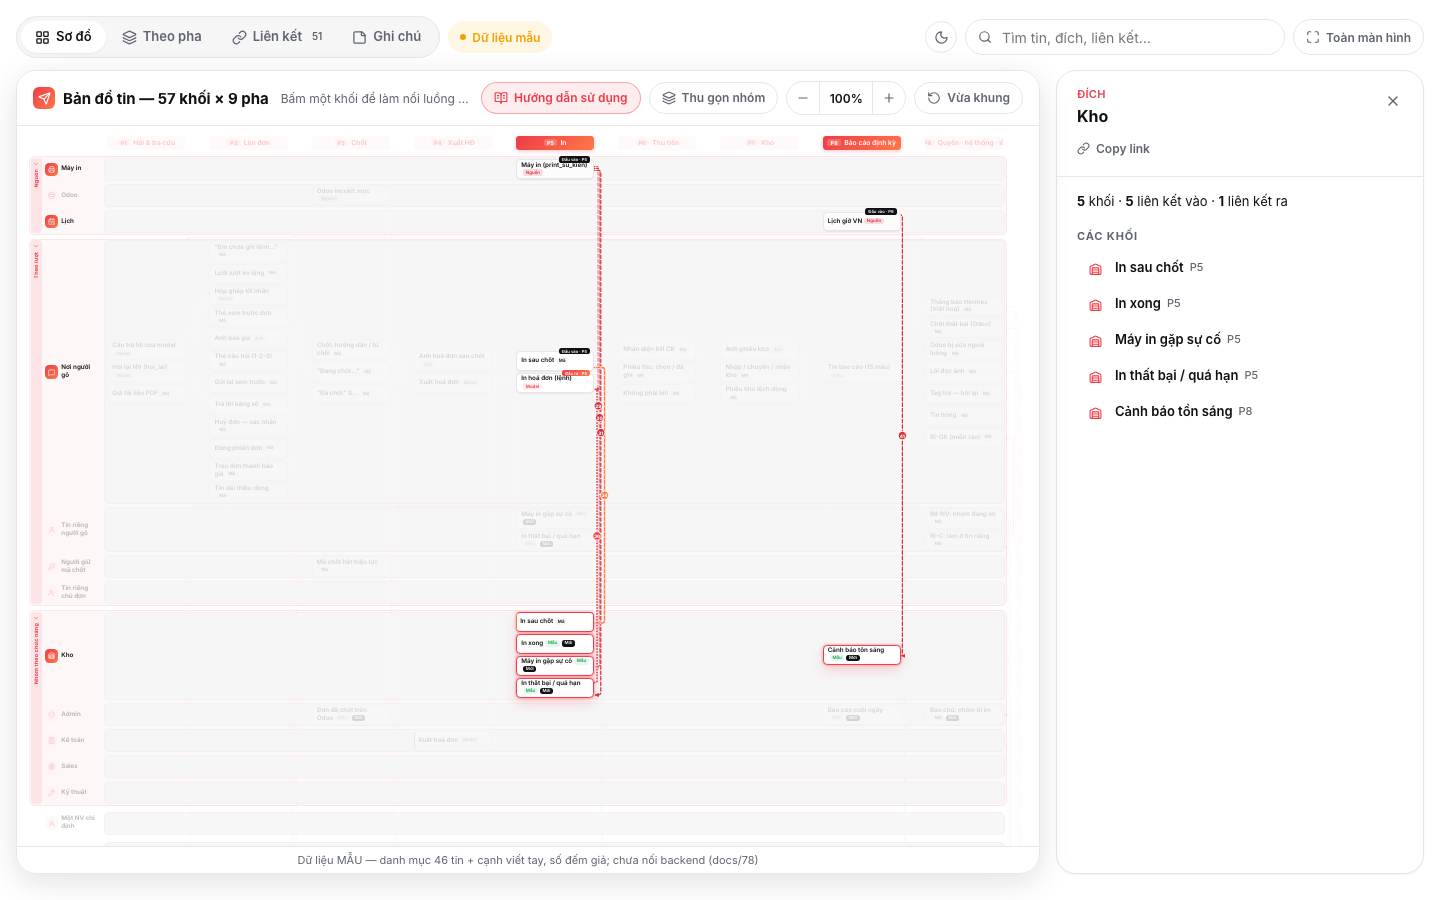
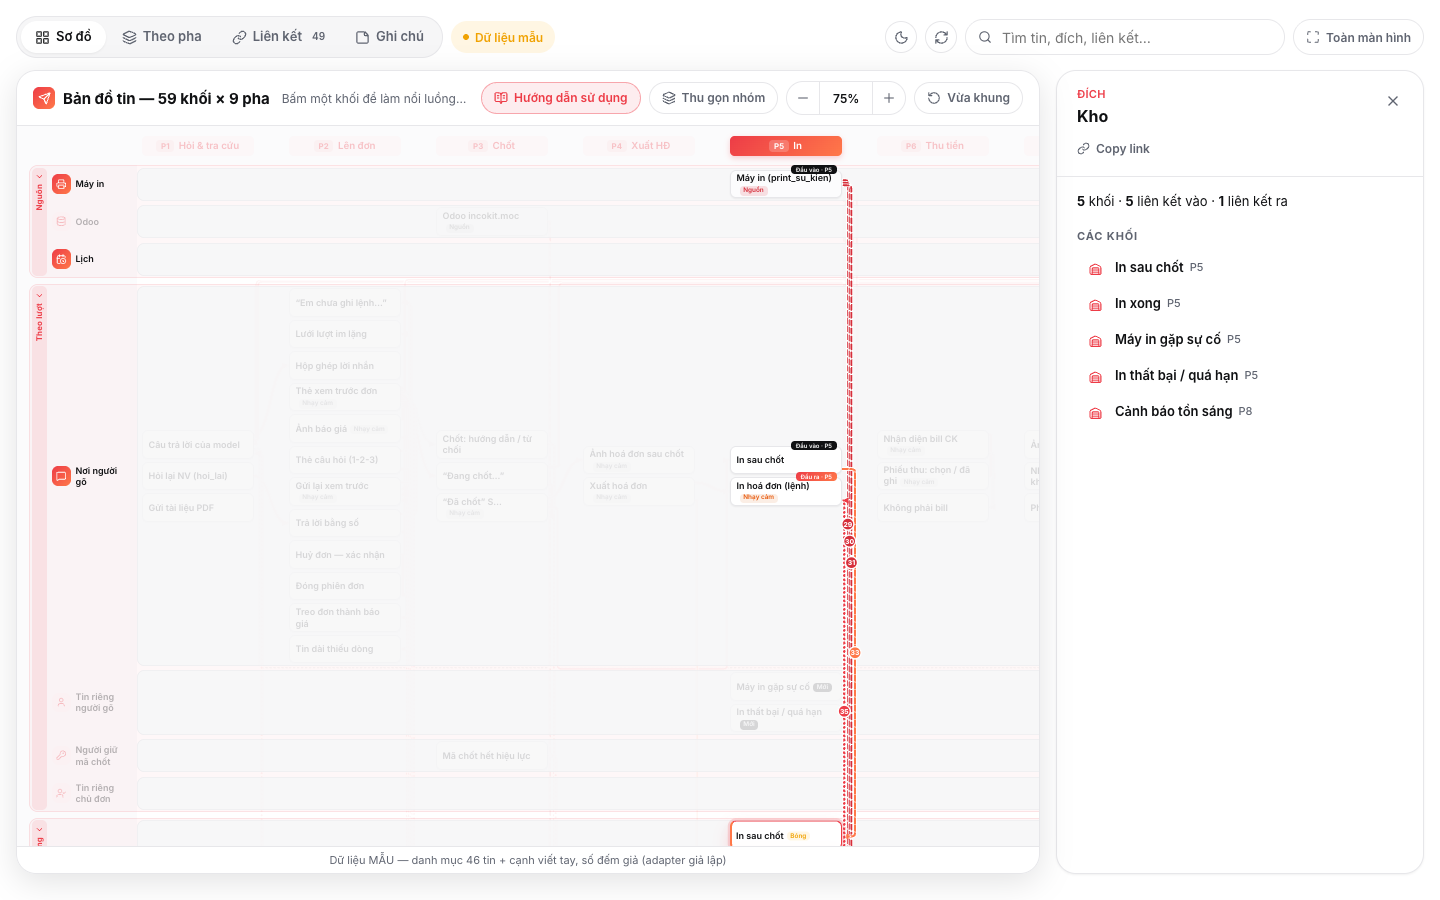
test(ban-do-tin): khung so ảnh chạy adapter giả lập đúng hợp đồng, chụp lại 27 trạng thái + 6 trạng thái vòng 2 (cuộn dính, vừa khung, luật bóng, CRM tự động, chưa có bản đồ, tối)
xem.ts truyền taoClientMau qua prop (trang thật chỉ có HTTP); ?trong=1 = bot chưa gửi ảnh chụp.
Đo lại ở 01: zoom 0.75 (mặc định ≥ 75 %), khối 150×38 bo 8, đầu pha 150×26, panel 368, bấm khối
→ khung kế ≤ 33 ms (dev). Nút Tải lại ẩn trên điện thoại (chừa chỗ ô tìm).

diff --git a/frontend/visual/ban-do-tin/so-sanh.html b/frontend/visual/ban-do-tin/so-sanh.html
@@ -7,71 +7,71 @@ table{border-collapse:collapse}td,th{border:1px solid #e7e7ea;padding:4px 8px;fo
 </style></head><body><h1>So ảnh: Bản đồ tin ↔ tham chiếu go.noti.vn (1440×900 / 390×844)</h1>
 <p>Bố cục/hình học phải khớp; nội dung khác (dữ liệu của mình: 9 pha × 18 hàng thay vì 6 × 19). Ảnh tham chiếu chỉ để so nội bộ, không đưa vào sản phẩm.</p>
 <table><tr><th>số đo</th><th>SPEC</th><th>đo ở 01 (gốc, chia zoom)</th></tr><tr><td>khoi</td><td>150 × 38, bo 8</td><td>[150,38]</td></tr><tr><td>tieu_de_pha</td><td>cao 26, rộng = cột</td><td>[150,26]</td></tr><tr><td>panel_rong</td><td>368 (khổ 1440)</td><td>368</td></tr><tr><td>thanh_tab_cao</td><td>42</td><td>42</td></tr><tr><td>o_tim</td><td>320 × 36</td><td>[320,36]</td></tr>
-<tr><td>bấm khối → khung kế tiếp</td><td>≤ 50 ms</td><td>{"js":{"lon_nhat":9.2,"trung_vi":1.7},"den_khung_ke":{"lon_nhat":30.5,"trung_vi":8.9},"url":"http://localhost:5292/visual/ban-do-tin/xem.html"}</td></tr></table>
+<tr><td>bấm khối → khung kế tiếp</td><td>≤ 50 ms</td><td>{"js":{"lon_nhat":11.3,"trung_vi":2.1},"den_khung_ke":{"lon_nhat":32.7,"trung_vi":8.7},"url":"http://localhost:5291/visual/ban-do-tin/xem.html"}</td></tr></table>
 <section><h2>01-desktop-light-default</h2><div class="hai">
   <figure><figcaption>Tham chiếu (go.noti.vn — chỉ so nội bộ)</figcaption><img src="file:///Users/joshung/Documents/ai_agent/wt-thong-bao/docs/78-thong-bao-chu-dong/tham-chieu-noti/anh/01-desktop-light-default.png" loading="lazy"></figure>
   <figure><figcaption>Bản đồ tin (của mình)</figcaption><img src="anh/01-desktop-light-default.png" loading="lazy"></figure></div>
-  <pre>{"zoom":0.521,"khoi":[150,38],"khoi_bo_goc":"8px","tieu_de_pha":[150,26],"panel_rong":368,"thanh_tab_cao":42,"o_tim":[320,36],"ban_do":[1914,1646]}</pre></section>
+  <pre>{"zoom":0.75,"khoi":[150,38],"khoi_bo_goc":"8px","tieu_de_pha":[150,26],"panel_rong":368,"thanh_tab_cao":42,"o_tim":[320,36],"ban_do":[1914,1696]}</pre></section>
 <section><h2>02-desktop-light-selected</h2><div class="hai">
   <figure><figcaption>Tham chiếu (go.noti.vn — chỉ so nội bộ)</figcaption><img src="file:///Users/joshung/Documents/ai_agent/wt-thong-bao/docs/78-thong-bao-chu-dong/tham-chieu-noti/anh/02-desktop-light-selected.png" loading="lazy"></figure>
   <figure><figcaption>Bản đồ tin (của mình)</figcaption><img src="anh/02-desktop-light-selected.png" loading="lazy"></figure></div>
-  <pre>{"zoom":0.521,"khoi":[150,38],"khoi_bo_goc":"8px","tieu_de_pha":[150,26],"panel_rong":368,"thanh_tab_cao":42,"o_tim":[320,36],"ban_do":[1914,1646]}</pre></section>
+  <pre>{"zoom":0.75,"khoi":[150,38],"khoi_bo_goc":"8px","tieu_de_pha":[150,26],"panel_rong":368,"thanh_tab_cao":42,"o_tim":[320,36],"ban_do":[1914,1696]}</pre></section>
 <section><h2>03-desktop-light-panel-row-hover</h2><div class="hai">
   <figure><figcaption>Tham chiếu (go.noti.vn — chỉ so nội bộ)</figcaption><img src="file:///Users/joshung/Documents/ai_agent/wt-thong-bao/docs/78-thong-bao-chu-dong/tham-chieu-noti/anh/03-desktop-light-panel-row-hover.png" loading="lazy"></figure>
   <figure><figcaption>Bản đồ tin (của mình)</figcaption><img src="anh/03-desktop-light-panel-row-hover.png" loading="lazy"></figure></div>
-  <pre>{"zoom":0.521,"khoi":[150,38],"khoi_bo_goc":"8px","tieu_de_pha":[150,26],"panel_rong":368,"thanh_tab_cao":42,"o_tim":[320,36],"ban_do":[1914,1646]}</pre></section>
+  <pre>{"zoom":0.75,"khoi":[150,38],"khoi_bo_goc":"8px","tieu_de_pha":[150,26],"panel_rong":368,"thanh_tab_cao":42,"o_tim":[320,36],"ban_do":[1914,1696]}</pre></section>
 <section><h2>04-desktop-light-block-hover</h2><div class="hai">
   <figure><figcaption>Tham chiếu (go.noti.vn — chỉ so nội bộ)</figcaption><img src="file:///Users/joshung/Documents/ai_agent/wt-thong-bao/docs/78-thong-bao-chu-dong/tham-chieu-noti/anh/04-desktop-light-block-hover.png" loading="lazy"></figure>
   <figure><figcaption>Bản đồ tin (của mình)</figcaption><img src="anh/04-desktop-light-block-hover.png" loading="lazy"></figure></div>
-  <pre>{"zoom":0.521,"khoi":[150,38],"khoi_bo_goc":"8px","tieu_de_pha":[150,26],"panel_rong":368,"thanh_tab_cao":42,"o_tim":[320,36],"ban_do":[1914,1646]}</pre></section>
+  <pre>{"zoom":0.75,"khoi":[150,38],"khoi_bo_goc":"8px","tieu_de_pha":[150,26],"panel_rong":368,"thanh_tab_cao":42,"o_tim":[320,36],"ban_do":[1914,1696]}</pre></section>
 <section><h2>05-desktop-light-legend-filter</h2><div class="hai">
   <figure><figcaption>Tham chiếu (go.noti.vn — chỉ so nội bộ)</figcaption><img src="file:///Users/joshung/Documents/ai_agent/wt-thong-bao/docs/78-thong-bao-chu-dong/tham-chieu-noti/anh/05-desktop-light-legend-filter.png" loading="lazy"></figure>
   <figure><figcaption>Bản đồ tin (của mình)</figcaption><img src="anh/05-desktop-light-legend-filter.png" loading="lazy"></figure></div>
-  <pre>{"zoom":0.521,"khoi":[150,38],"khoi_bo_goc":"8px","tieu_de_pha":[150,26],"panel_rong":368,"thanh_tab_cao":42,"o_tim":[320,36],"ban_do":[1914,1646]}</pre></section>
+  <pre>{"zoom":0.75,"khoi":[150,38],"khoi_bo_goc":"8px","tieu_de_pha":[150,26],"panel_rong":368,"thanh_tab_cao":42,"o_tim":[320,36],"ban_do":[1914,1696]}</pre></section>
 <section><h2>06-desktop-light-phase-selected</h2><div class="hai">
   <figure><figcaption>Tham chiếu (go.noti.vn — chỉ so nội bộ)</figcaption><img src="file:///Users/joshung/Documents/ai_agent/wt-thong-bao/docs/78-thong-bao-chu-dong/tham-chieu-noti/anh/06-desktop-light-phase-selected.png" loading="lazy"></figure>
   <figure><figcaption>Bản đồ tin (của mình)</figcaption><img src="anh/06-desktop-light-phase-selected.png" loading="lazy"></figure></div>
-  <pre>{"zoom":0.521,"khoi":[150,38],"khoi_bo_goc":"8px","tieu_de_pha":[150,26],"panel_rong":368,"thanh_tab_cao":42,"o_tim":[320,36],"ban_do":[1914,1646]}</pre></section>
+  <pre>{"zoom":0.75,"khoi":[150,38],"khoi_bo_goc":"8px","tieu_de_pha":[150,26],"panel_rong":368,"thanh_tab_cao":42,"o_tim":[320,36],"ban_do":[1914,1696]}</pre></section>
 <section><h2>07-desktop-light-row-selected</h2><div class="hai">
   <figure><figcaption>Tham chiếu (go.noti.vn — chỉ so nội bộ)</figcaption><img src="file:///Users/joshung/Documents/ai_agent/wt-thong-bao/docs/78-thong-bao-chu-dong/tham-chieu-noti/anh/07-desktop-light-row-selected.png" loading="lazy"></figure>
   <figure><figcaption>Bản đồ tin (của mình)</figcaption><img src="anh/07-desktop-light-row-selected.png" loading="lazy"></figure></div>
-  <pre>{"zoom":0.521,"khoi":[150,38],"khoi_bo_goc":"8px","tieu_de_pha":[150,26],"panel_rong":368,"thanh_tab_cao":42,"o_tim":[320,36],"ban_do":[1914,1646]}</pre></section>
+  <pre>{"zoom":0.75,"khoi":[150,38],"khoi_bo_goc":"8px","tieu_de_pha":[150,26],"panel_rong":368,"thanh_tab_cao":42,"o_tim":[320,36],"ban_do":[1914,1696]}</pre></section>
 <section><h2>08-desktop-light-link-selected</h2><div class="hai">
   <figure><figcaption>Tham chiếu (go.noti.vn — chỉ so nội bộ)</figcaption><img src="file:///Users/joshung/Documents/ai_agent/wt-thong-bao/docs/78-thong-bao-chu-dong/tham-chieu-noti/anh/08-desktop-light-link-selected.png" loading="lazy"></figure>
   <figure><figcaption>Bản đồ tin (của mình)</figcaption><img src="anh/08-desktop-light-link-selected.png" loading="lazy"></figure></div>
-  <pre>{"zoom":0.521,"khoi":[150,38],"khoi_bo_goc":"8px","tieu_de_pha":[150,26],"panel_rong":368,"thanh_tab_cao":42,"o_tim":[320,36],"ban_do":[1914,1646]}</pre></section>
+  <pre>{"zoom":0.75,"khoi":[150,38],"khoi_bo_goc":"8px","tieu_de_pha":[150,26],"panel_rong":368,"thanh_tab_cao":42,"o_tim":[320,36],"ban_do":[1914,1696]}</pre></section>
 <section><h2>09-desktop-light-all-groups-collapsed</h2><div class="hai">
   <figure><figcaption>Tham chiếu (go.noti.vn — chỉ so nội bộ)</figcaption><img src="file:///Users/joshung/Documents/ai_agent/wt-thong-bao/docs/78-thong-bao-chu-dong/tham-chieu-noti/anh/09-desktop-light-all-groups-collapsed.png" loading="lazy"></figure>
   <figure><figcaption>Bản đồ tin (của mình)</figcaption><img src="anh/09-desktop-light-all-groups-collapsed.png" loading="lazy"></figure></div>
-  <pre>{"zoom":0.521,"khoi":null,"khoi_bo_goc":null,"tieu_de_pha":[150,26],"panel_rong":368,"thanh_tab_cao":42,"o_tim":[320,36],"ban_do":[1914,416]}</pre></section>
+  <pre>{"zoom":0.75,"khoi":null,"khoi_bo_goc":null,"tieu_de_pha":[150,26],"panel_rong":368,"thanh_tab_cao":42,"o_tim":[320,36],"ban_do":[1914,416]}</pre></section>
 <section><h2>10-desktop-light-one-group-collapsed</h2><div class="hai">
   <figure><figcaption>Tham chiếu (go.noti.vn — chỉ so nội bộ)</figcaption><img src="file:///Users/joshung/Documents/ai_agent/wt-thong-bao/docs/78-thong-bao-chu-dong/tham-chieu-noti/anh/10-desktop-light-one-group-collapsed.png" loading="lazy"></figure>
   <figure><figcaption>Bản đồ tin (của mình)</figcaption><img src="anh/10-desktop-light-one-group-collapsed.png" loading="lazy"></figure></div>
-  <pre>{"zoom":0.521,"khoi":[150,38],"khoi_bo_goc":"8px","tieu_de_pha":[150,26],"panel_rong":368,"thanh_tab_cao":42,"o_tim":[320,36],"ban_do":[1914,1320]}</pre></section>
+  <pre>{"zoom":0.75,"khoi":[150,38],"khoi_bo_goc":"8px","tieu_de_pha":[150,26],"panel_rong":368,"thanh_tab_cao":42,"o_tim":[320,36],"ban_do":[1914,1370]}</pre></section>
 <section><h2>11-desktop-light-zoom-120</h2><div class="hai">
   <figure><figcaption>Tham chiếu (go.noti.vn — chỉ so nội bộ)</figcaption><img src="file:///Users/joshung/Documents/ai_agent/wt-thong-bao/docs/78-thong-bao-chu-dong/tham-chieu-noti/anh/11-desktop-light-zoom-120.png" loading="lazy"></figure>
   <figure><figcaption>Bản đồ tin (của mình)</figcaption><img src="anh/11-desktop-light-zoom-120.png" loading="lazy"></figure></div>
-  <pre>{"zoom":0.626,"khoi":[150,38],"khoi_bo_goc":"8px","tieu_de_pha":[150,26],"panel_rong":368,"thanh_tab_cao":42,"o_tim":[320,36],"ban_do":[1914,1646]}</pre></section>
+  <pre>{"zoom":0.9,"khoi":[150,38],"khoi_bo_goc":"8px","tieu_de_pha":[150,26],"panel_rong":368,"thanh_tab_cao":42,"o_tim":[320,36],"ban_do":[1914,1696]}</pre></section>
 <section><h2>12-desktop-light-zoom-min-67</h2><div class="hai">
   <figure><figcaption>Tham chiếu (go.noti.vn — chỉ so nội bộ)</figcaption><img src="file:///Users/joshung/Documents/ai_agent/wt-thong-bao/docs/78-thong-bao-chu-dong/tham-chieu-noti/anh/12-desktop-light-zoom-min-67.png" loading="lazy"></figure>
   <figure><figcaption>Bản đồ tin (của mình)</figcaption><img src="anh/12-desktop-light-zoom-min-67.png" loading="lazy"></figure></div>
-  <pre>{"zoom":0.5,"khoi":[150,38],"khoi_bo_goc":"8px","tieu_de_pha":[150,26],"panel_rong":368,"thanh_tab_cao":42,"o_tim":[320,36],"ban_do":[1914,1646]}</pre></section>
+  <pre>{"zoom":0.5,"khoi":[150,38],"khoi_bo_goc":"8px","tieu_de_pha":[150,26],"panel_rong":368,"thanh_tab_cao":42,"o_tim":[320,36],"ban_do":[1914,1696]}</pre></section>
 <section><h2>13-desktop-light-help-dialog</h2><div class="hai">
   <figure><figcaption>Tham chiếu (go.noti.vn — chỉ so nội bộ)</figcaption><img src="file:///Users/joshung/Documents/ai_agent/wt-thong-bao/docs/78-thong-bao-chu-dong/tham-chieu-noti/anh/13-desktop-light-help-dialog.png" loading="lazy"></figure>
   <figure><figcaption>Bản đồ tin (của mình)</figcaption><img src="anh/13-desktop-light-help-dialog.png" loading="lazy"></figure></div>
-  <pre>{"zoom":0.521,"khoi":[150,38],"khoi_bo_goc":"8px","tieu_de_pha":[150,26],"panel_rong":368,"thanh_tab_cao":42,"o_tim":[320,36],"ban_do":[1914,1646]}</pre></section>
+  <pre>{"zoom":0.75,"khoi":[150,38],"khoi_bo_goc":"8px","tieu_de_pha":[150,26],"panel_rong":368,"thanh_tab_cao":42,"o_tim":[320,36],"ban_do":[1914,1696]}</pre></section>
 <section><h2>14-desktop-light-search</h2><div class="hai">
   <figure><figcaption>Tham chiếu (go.noti.vn — chỉ so nội bộ)</figcaption><img src="file:///Users/joshung/Documents/ai_agent/wt-thong-bao/docs/78-thong-bao-chu-dong/tham-chieu-noti/anh/14-desktop-light-search.png" loading="lazy"></figure>
   <figure><figcaption>Bản đồ tin (của mình)</figcaption><img src="anh/14-desktop-light-search.png" loading="lazy"></figure></div>
-  <pre>{"zoom":0.521,"khoi":[150,38],"khoi_bo_goc":"8px","tieu_de_pha":[150,26],"panel_rong":368,"thanh_tab_cao":42,"o_tim":[320,36],"ban_do":[1914,1646]}</pre></section>
+  <pre>{"zoom":0.75,"khoi":[150,38],"khoi_bo_goc":"8px","tieu_de_pha":[150,26],"panel_rong":368,"thanh_tab_cao":42,"o_tim":[320,36],"ban_do":[1914,1696]}</pre></section>
 <section><h2>15-desktop-light-fullscreen</h2><div class="hai">
   <figure><figcaption>Tham chiếu (go.noti.vn — chỉ so nội bộ)</figcaption><img src="file:///Users/joshung/Documents/ai_agent/wt-thong-bao/docs/78-thong-bao-chu-dong/tham-chieu-noti/anh/15-desktop-light-fullscreen.png" loading="lazy"></figure>
   <figure><figcaption>Bản đồ tin (của mình)</figcaption><img src="anh/15-desktop-light-fullscreen.png" loading="lazy"></figure></div>
-  <pre>{"zoom":0.5,"khoi":[155,38],"khoi_bo_goc":"8px","tieu_de_pha":[155,26],"panel_rong":368,"thanh_tab_cao":42,"o_tim":[320,36],"ban_do":[1996,1646]}</pre></section>
+  <pre>{"zoom":0.75,"khoi":[155,38],"khoi_bo_goc":"8px","tieu_de_pha":[155,26],"panel_rong":368,"thanh_tab_cao":42,"o_tim":[320,36],"ban_do":[1996,1696]}</pre></section>
 <section><h2>16-desktop-light-fullscreen-noselect</h2><div class="hai">
   <figure><figcaption>Tham chiếu (go.noti.vn — chỉ so nội bộ)</figcaption><img src="file:///Users/joshung/Documents/ai_agent/wt-thong-bao/docs/78-thong-bao-chu-dong/tham-chieu-noti/anh/16-desktop-light-fullscreen-noselect.png" loading="lazy"></figure>
   <figure><figcaption>Bản đồ tin (của mình)</figcaption><img src="anh/16-desktop-light-fullscreen-noselect.png" loading="lazy"></figure></div>
-  <pre>{"zoom":0.5,"khoi":[155,38],"khoi_bo_goc":"8px","tieu_de_pha":[155,26],"panel_rong":368,"thanh_tab_cao":42,"o_tim":[320,36],"ban_do":[1996,1646]}</pre></section>
+  <pre>{"zoom":0.75,"khoi":[155,38],"khoi_bo_goc":"8px","tieu_de_pha":[155,26],"panel_rong":368,"thanh_tab_cao":42,"o_tim":[320,36],"ban_do":[1996,1696]}</pre></section>
 <section><h2>17-desktop-light-tab-theo-pha</h2><div class="hai">
   <figure><figcaption>Tham chiếu (go.noti.vn — chỉ so nội bộ)</figcaption><img src="file:///Users/joshung/Documents/ai_agent/wt-thong-bao/docs/78-thong-bao-chu-dong/tham-chieu-noti/anh/17-desktop-light-tab-theo-pha.png" loading="lazy"></figure>
   <figure><figcaption>Bản đồ tin (của mình)</figcaption><img src="anh/17-desktop-light-tab-theo-pha.png" loading="lazy"></figure></div>
@@ -87,11 +87,11 @@ table{border-collapse:collapse}td,th{border:1px solid #e7e7ea;padding:4px 8px;fo
 <section><h2>20-desktop-dark-default</h2><div class="hai">
   <figure><figcaption>Tham chiếu (go.noti.vn — chỉ so nội bộ)</figcaption><img src="file:///Users/joshung/Documents/ai_agent/wt-thong-bao/docs/78-thong-bao-chu-dong/tham-chieu-noti/anh/20-desktop-dark-default.png" loading="lazy"></figure>
   <figure><figcaption>Bản đồ tin (của mình)</figcaption><img src="anh/20-desktop-dark-default.png" loading="lazy"></figure></div>
-  <pre>{"zoom":0.521,"khoi":[150,38],"khoi_bo_goc":"8px","tieu_de_pha":[150,26],"panel_rong":368,"thanh_tab_cao":42,"o_tim":[320,36],"ban_do":[1914,1646]}</pre></section>
+  <pre>{"zoom":0.75,"khoi":[150,38],"khoi_bo_goc":"8px","tieu_de_pha":[150,26],"panel_rong":368,"thanh_tab_cao":42,"o_tim":[320,36],"ban_do":[1914,1696]}</pre></section>
 <section><h2>21-desktop-dark-selected</h2><div class="hai">
   <figure><figcaption>Tham chiếu (go.noti.vn — chỉ so nội bộ)</figcaption><img src="file:///Users/joshung/Documents/ai_agent/wt-thong-bao/docs/78-thong-bao-chu-dong/tham-chieu-noti/anh/21-desktop-dark-selected.png" loading="lazy"></figure>
   <figure><figcaption>Bản đồ tin (của mình)</figcaption><img src="anh/21-desktop-dark-selected.png" loading="lazy"></figure></div>
-  <pre>{"zoom":0.521,"khoi":[150,38],"khoi_bo_goc":"8px","tieu_de_pha":[150,26],"panel_rong":368,"thanh_tab_cao":42,"o_tim":[320,36],"ban_do":[1914,1646]}</pre></section>
+  <pre>{"zoom":0.75,"khoi":[150,38],"khoi_bo_goc":"8px","tieu_de_pha":[150,26],"panel_rong":368,"thanh_tab_cao":42,"o_tim":[320,36],"ban_do":[1914,1696]}</pre></section>
 <section><h2>22-mobile-dark-gate</h2><div class="hai">
   <figure><figcaption>Tham chiếu (go.noti.vn — chỉ so nội bộ)</figcaption><img src="file:///Users/joshung/Documents/ai_agent/wt-thong-bao/docs/78-thong-bao-chu-dong/tham-chieu-noti/anh/22-mobile-dark-gate.png" loading="lazy"></figure>
   <figure><figcaption>Bản đồ tin (của mình)</figcaption><img src="anh/22-mobile-dark-gate.png" loading="lazy"></figure></div>
@@ -115,4 +115,28 @@ table{border-collapse:collapse}td,th{border:1px solid #e7e7ea;padding:4px 8px;fo
 <section><h2>27-mobile-light-bottom-sheet</h2><div class="hai">
   <figure><figcaption>Tham chiếu (go.noti.vn — chỉ so nội bộ)</figcaption><img src="file:///Users/joshung/Documents/ai_agent/wt-thong-bao/docs/78-thong-bao-chu-dong/tham-chieu-noti/anh/27-mobile-light-bottom-sheet.png" loading="lazy"></figure>
   <figure><figcaption>Bản đồ tin (của mình)</figcaption><img src="anh/27-mobile-light-bottom-sheet.png" loading="lazy"></figure></div>
-  <pre>{"zoom":1,"khoi":null,"khoi_bo_goc":null,"tieu_de_pha":null,"panel_rong":390,"thanh_tab_cao":42,"o_tim":[155,36],"ban_do":null}</pre></section></body></html>
+  <pre>{"zoom":1,"khoi":null,"khoi_bo_goc":null,"tieu_de_pha":null,"panel_rong":390,"thanh_tab_cao":42,"o_tim":[155,36],"ban_do":null}</pre></section>
+<section><h2>28-desktop-light-cuon-dinh</h2><div class="hai">
+  <figure><figcaption>Tham chiếu (go.noti.vn — chỉ so nội bộ)</figcaption><p class="thieu">không có ảnh tham chiếu ở máy này</p></figure>
+  <figure><figcaption>Bản đồ tin (của mình)</figcaption><img src="anh/28-desktop-light-cuon-dinh.png" loading="lazy"></figure></div>
+  <pre>{"zoom":0.75,"khoi":[150,38],"khoi_bo_goc":"8px","tieu_de_pha":[150,26],"panel_rong":368,"thanh_tab_cao":42,"o_tim":[320,36],"ban_do":[1914,1696]}</pre></section>
+<section><h2>29-desktop-light-vua-khung</h2><div class="hai">
+  <figure><figcaption>Tham chiếu (go.noti.vn — chỉ so nội bộ)</figcaption><p class="thieu">không có ảnh tham chiếu ở máy này</p></figure>
+  <figure><figcaption>Bản đồ tin (của mình)</figcaption><img src="anh/29-desktop-light-vua-khung.png" loading="lazy"></figure></div>
+  <pre>{"zoom":0.521,"khoi":[150,38],"khoi_bo_goc":"8px","tieu_de_pha":[150,26],"panel_rong":368,"thanh_tab_cao":42,"o_tim":[320,36],"ban_do":[1914,1696]}</pre></section>
+<section><h2>30-desktop-light-luat-bong</h2><div class="hai">
+  <figure><figcaption>Tham chiếu (go.noti.vn — chỉ so nội bộ)</figcaption><p class="thieu">không có ảnh tham chiếu ở máy này</p></figure>
+  <figure><figcaption>Bản đồ tin (của mình)</figcaption><img src="anh/30-desktop-light-luat-bong.png" loading="lazy"></figure></div>
+  <pre>{"zoom":0.75,"khoi":[150,38],"khoi_bo_goc":"8px","tieu_de_pha":[150,26],"panel_rong":368,"thanh_tab_cao":42,"o_tim":[320,36],"ban_do":[1914,1696]}</pre></section>
+<section><h2>31-desktop-light-crm-tu-dong</h2><div class="hai">
+  <figure><figcaption>Tham chiếu (go.noti.vn — chỉ so nội bộ)</figcaption><p class="thieu">không có ảnh tham chiếu ở máy này</p></figure>
+  <figure><figcaption>Bản đồ tin (của mình)</figcaption><img src="anh/31-desktop-light-crm-tu-dong.png" loading="lazy"></figure></div>
+  <pre>{"zoom":0.75,"khoi":[150,38],"khoi_bo_goc":"8px","tieu_de_pha":[150,26],"panel_rong":368,"thanh_tab_cao":42,"o_tim":[320,36],"ban_do":[1914,1696]}</pre></section>
+<section><h2>32-desktop-light-chua-co-ban-do</h2><div class="hai">
+  <figure><figcaption>Tham chiếu (go.noti.vn — chỉ so nội bộ)</figcaption><p class="thieu">không có ảnh tham chiếu ở máy này</p></figure>
+  <figure><figcaption>Bản đồ tin (của mình)</figcaption><img src="anh/32-desktop-light-chua-co-ban-do.png" loading="lazy"></figure></div>
+  <pre>{"zoom":1,"khoi":null,"khoi_bo_goc":null,"tieu_de_pha":null,"panel_rong":null,"thanh_tab_cao":42,"o_tim":null,"ban_do":null}</pre></section>
+<section><h2>33-desktop-dark-cuon-dinh</h2><div class="hai">
+  <figure><figcaption>Tham chiếu (go.noti.vn — chỉ so nội bộ)</figcaption><p class="thieu">không có ảnh tham chiếu ở máy này</p></figure>
+  <figure><figcaption>Bản đồ tin (của mình)</figcaption><img src="anh/33-desktop-dark-cuon-dinh.png" loading="lazy"></figure></div>
+  <pre>{"zoom":0.75,"khoi":[150,38],"khoi_bo_goc":"8px","tieu_de_pha":[150,26],"panel_rong":368,"thanh_tab_cao":42,"o_tim":[320,36],"ban_do":[1914,1696]}</pre></section></body></html>

diff --git a/frontend/src/views/settings/BanDoTinPage.vue b/frontend/src/views/settings/BanDoTinPage.vue
@@ -28,7 +28,7 @@
         <button type="button" class="bdt-nut-tron" :aria-label="s.theme.value === 'dark' ? 'Giao diện sáng' : 'Giao diện tối'" data-doi-theme @click="doiTheme">
           <Sun v-if="s.theme.value === 'dark'" :size="15" /><Moon v-else :size="15" />
         </button>
-        <button type="button" class="bdt-nut-tron" aria-label="Tải lại" title="Tải lại bản đồ" data-tai-lai :disabled="s.dangTai.value" @click="s.tai()">
+        <button v-if="manHinh !== 'dt'" type="button" class="bdt-nut-tron" aria-label="Tải lại" title="Tải lại bản đồ" data-tai-lai :disabled="s.dangTai.value" @click="s.tai()">
           <RefreshCw :size="15" />
         </button>
         <OTimKiem v-if="s.mh.value" />

diff --git a/frontend/visual/ban-do-tin/xem.ts b/frontend/visual/ban-do-tin/xem.ts
@@ -1,5 +1,8 @@
-// Khung so ảnh: dựng trang Bản đồ tin không cần router/đăng nhập, dùng client GIẢ LẬP.
+// Khung so ảnh: dựng trang Bản đồ tin không cần router/đăng nhập, dùng client GIẢ LẬP (đúng hợp đồng API).
+// ?trong=1 ⇒ bot chưa gửi ảnh chụp (trạng thái trống).
 import { createApp } from 'vue';
 import BanDoTinPage from '@/views/settings/BanDoTinPage.vue';
+import { taoClientMau } from '@/views/settings/ban-do-tin/client-mau';
 
-createApp(BanDoTinPage).mount('#app');
+const q = new URLSearchParams(location.search);
+createApp(BanDoTinPage, { client: taoClientMau({ trong: q.get('trong') === '1' }) }).mount('#app');
